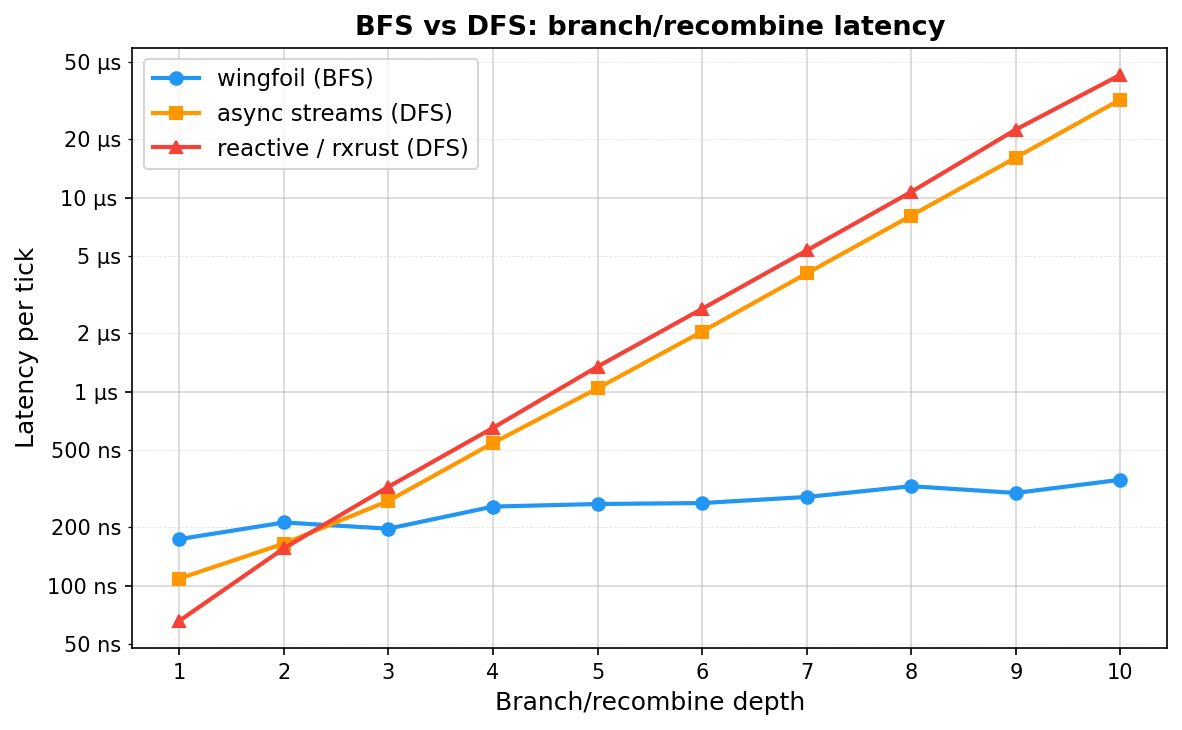
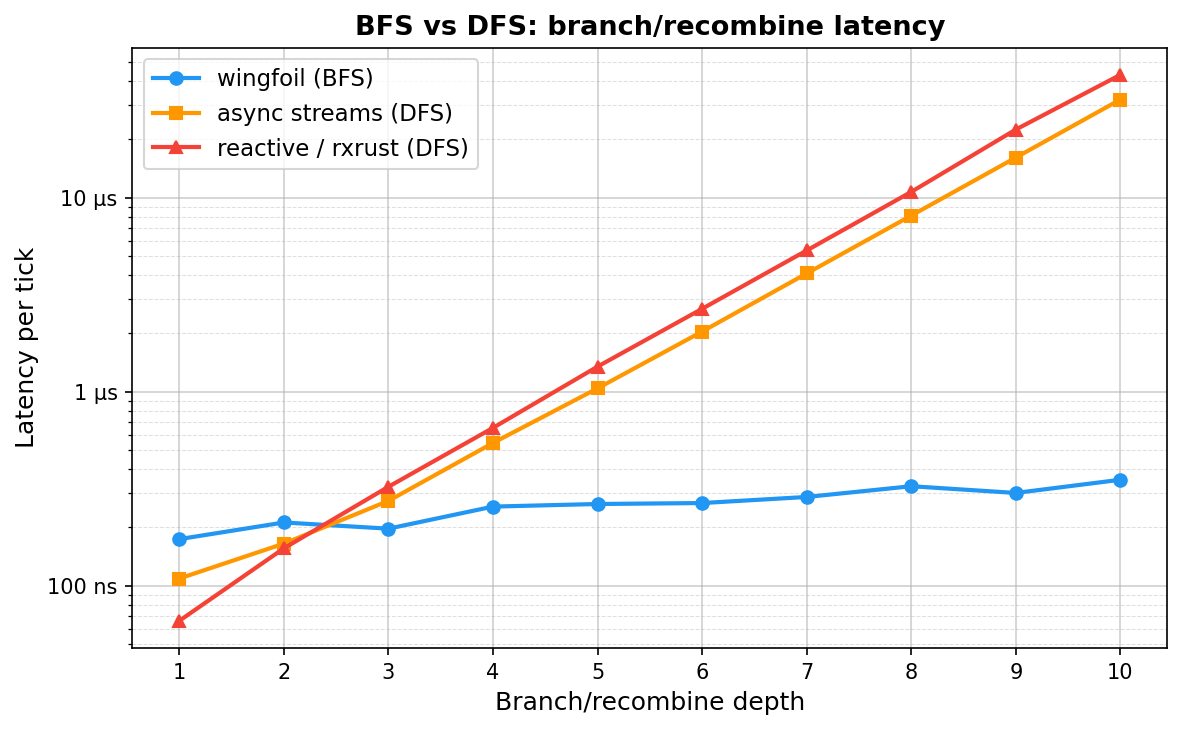
Improve chart: use plt.yscale log with minor gridlines, add plot.py

diff --git a/wingfoil/benches/bfs_vs_dfs/plot.py b/wingfoil/benches/bfs_vs_dfs/plot.py
@@ -1,0 +1,41 @@
+import matplotlib
+matplotlib.use('Agg')
+import matplotlib.pyplot as plt
+import matplotlib.ticker as ticker
+
+depths = list(range(1, 11))
+
+wingfoil = [174, 212, 197, 256, 264, 267, 287, 326, 301, 352]
+async_s  = [109, 165, 274, 545, 1042, 2045, 4076, 8100, 16125, 32121]
+reactive = [66,  156, 324, 652, 1349, 2679, 5353, 10732, 22493, 43073]
+
+fig, ax = plt.subplots(figsize=(8, 5))
+
+ax.plot(depths, wingfoil, 'o-', color='#2196F3', linewidth=2, markersize=6, label='wingfoil (BFS)')
+ax.plot(depths, async_s,  's-', color='#FF9800', linewidth=2, markersize=6, label='async streams (DFS)')
+ax.plot(depths, reactive, '^-', color='#F44336', linewidth=2, markersize=6, label='reactive / rxrust (DFS)')
+
+plt.yscale('log')
+
+ax.yaxis.set_major_locator(ticker.LogLocator(base=10))
+ax.yaxis.set_minor_locator(ticker.LogLocator(base=10, subs=[2, 3, 4, 5, 6, 7, 8, 9]))
+
+def fmt_time(y, _):
+    return f'{y:.0f} ns' if y < 1000 else f'{y/1000:.0f} µs'
+
+ax.yaxis.set_major_formatter(ticker.FuncFormatter(fmt_time))
+ax.yaxis.set_minor_formatter(ticker.NullFormatter())
+
+ax.grid(True, which='major', linestyle='-',  linewidth=0.8, alpha=0.6)
+ax.grid(True, which='minor', linestyle='--', linewidth=0.5, alpha=0.4)
+ax.set_axisbelow(True)
+
+ax.set_xticks(depths)
+ax.set_xlabel('Branch/recombine depth', fontsize=12)
+ax.set_ylabel('Latency per tick', fontsize=12)
+ax.set_title('BFS vs DFS: branch/recombine latency', fontsize=13, fontweight='bold')
+ax.legend(fontsize=11)
+
+fig.tight_layout()
+fig.savefig('latency.png', dpi=150, bbox_inches='tight')
+print("saved")
